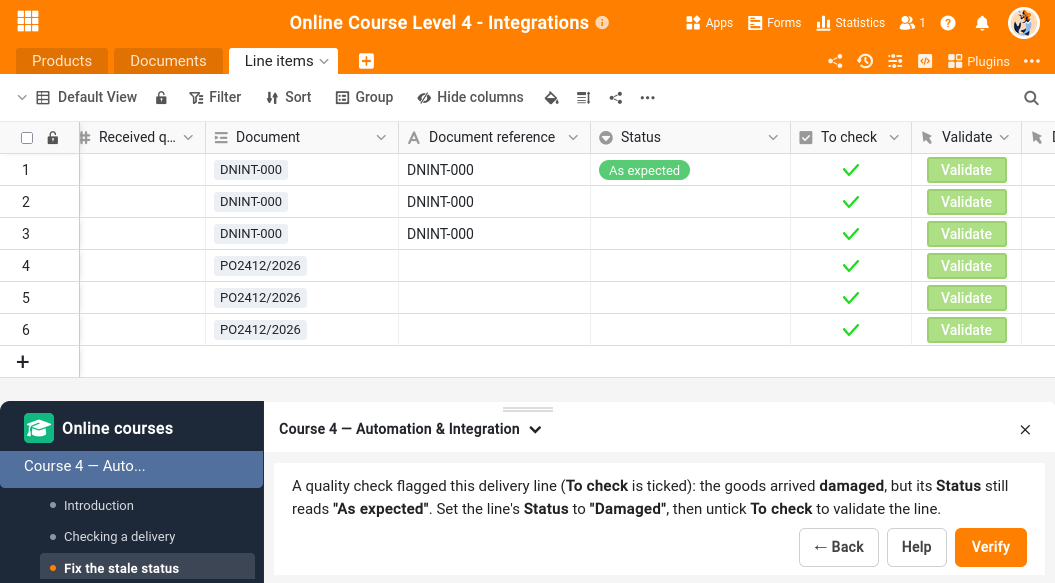
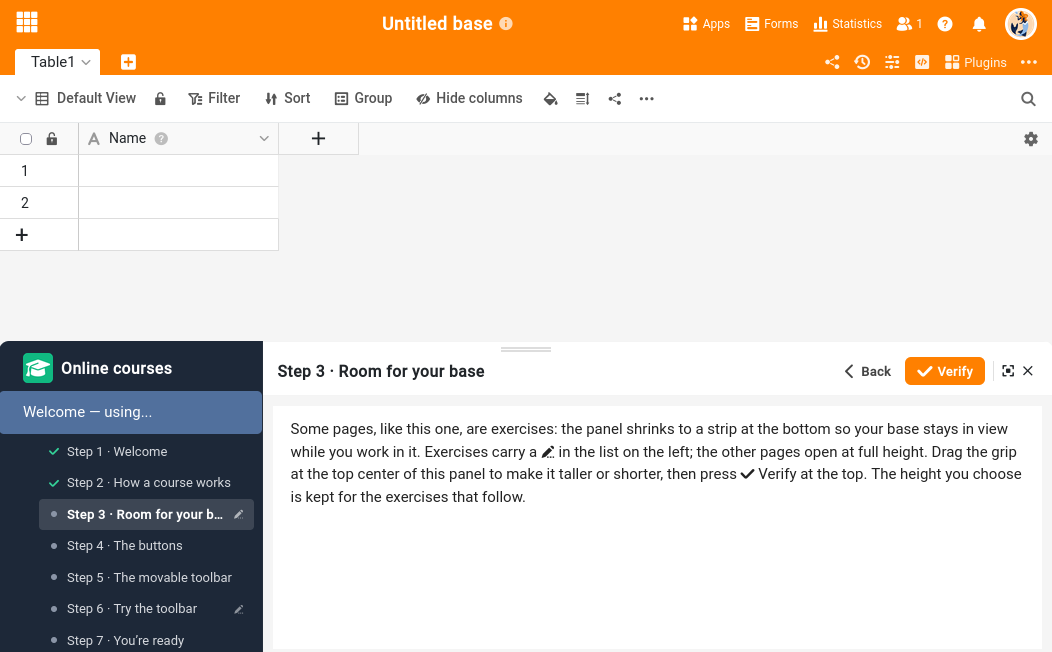
Replace the README screenshot with a neutral Welcome course capture

diff --git a/README.md b/README.md
@@ -5,7 +5,7 @@
 new view of your data: it walks you through the hands-on exercises of a course and **checks
 your work directly in your own base**.
 
-![The Online courses plugin open on a base, showing the current exercise and its Verify button](docs/online-courses-plugin.png)
+![The Online courses plugin open on a base, with the list of steps on the left and the current exercise and its Verify button on the right](docs/online-courses-plugin.png)
 
 ## How it works with the courses
 
